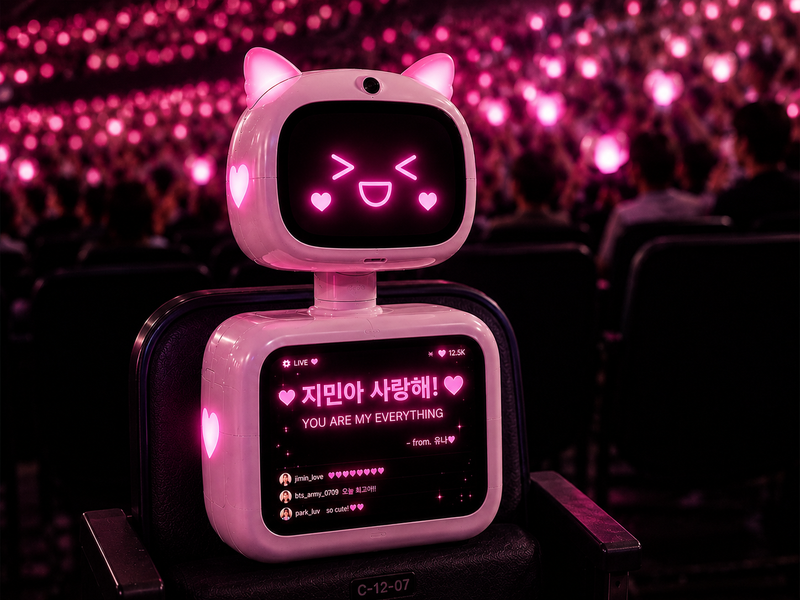
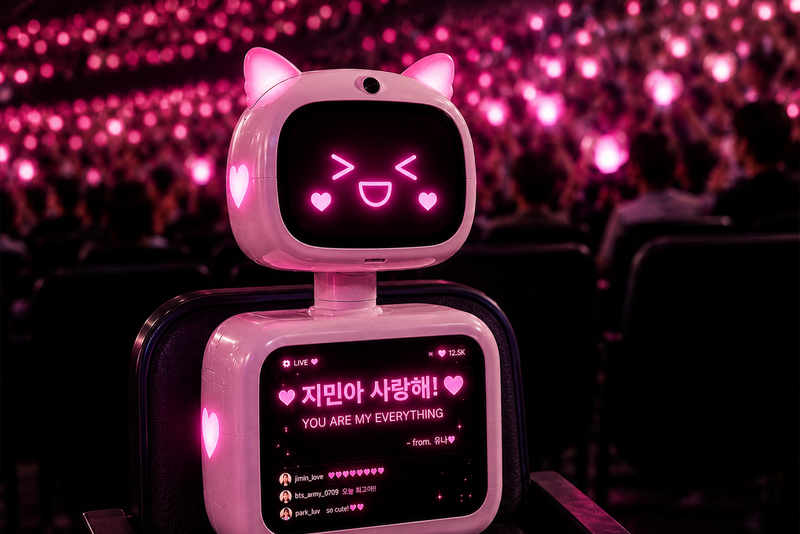
refine all pages

diff --git a/dp3.html b/dp3.html
@@ -38,21 +38,32 @@
   .concept-pull .q { font-family: var(--serif); font-size: clamp(24px,3vw,42px); line-height: 1.18; letter-spacing: -.01em; }
 
   /* components */
+  .comp-split { display: grid; grid-template-columns: clamp(180px, 40vw, 420px) 1fr; gap: clamp(16px, 4vw, 56px); align-items: stretch; min-height: 600px; }
+  @media(max-width: 820px) { 
+    .comp-split { min-height: 400px; gap: 16px; } 
+    .comp-grid .c { padding: 16px; }
+    .comp-grid .c h4 { font-size: 16px; }
+    .comp-grid .c p { font-size: 13px; }
+  }
+
   .comp-img .frame { aspect-ratio: 3/2; border-radius: 5px; }
   .comp-grid { display: grid; grid-template-columns: repeat(3,1fr); gap: 1px; background: var(--line-soft); border: 1px solid var(--line-soft); border-radius: 4px; overflow: hidden; margin-top: clamp(16px,2vw,24px); }
-  .comp-grid .c { background: var(--paper); padding: clamp(22px,2.4vw,32px); display: flex; flex-direction: column; gap: 14px; }
+  .comp-grid .c { background: var(--paper); padding: clamp(22px,2.4vw,32px); display: flex; flex-direction: column; gap: 5px; }
   .comp-grid .c .ci { display: flex; align-items: baseline; justify-content: space-between; gap: 12px; }
   .comp-grid .c .label { color: var(--accent); }
   .comp-grid .c .cnum { font-family: var(--serif); font-style: italic; font-size: 26px; color: var(--accent); }
   .comp-grid .c h4 { font-size: 19px; font-weight: 600; letter-spacing: -.01em; }
   .comp-grid .c p { font-size: 14.5px; color: var(--ink-soft); line-height: 1.55; }
-  @media(max-width:760px){ .comp-grid{ grid-template-columns:1fr; } }
 
   /* scenario gallery */
-  .gallery { display: grid; grid-template-columns: repeat(4,1fr); gap: clamp(10px,1.4vw,18px); }
-  .gallery .frame { border-radius: 4px; }
-  .gallery .frame.big { grid-column: span 2; grid-row: span 2; aspect-ratio: 1/1; }
-  @media(max-width:760px){ .gallery{ grid-template-columns:1fr 1fr; } .gallery .frame.big{ grid-column:span 2; aspect-ratio:16/10; grid-row:auto; } }
+  .gallery { display: grid; grid-template-columns: repeat(3, 1fr); gap: clamp(24px, 3vw, 48px); }
+  .gallery .g-item { display: flex; flex-direction: column; gap: 12px; }
+  .gallery .g-item.big { grid-column: span 2; }
+  .gallery .frame { border-radius: 6px; overflow: hidden; background: var(--line-faint); }
+  .gallery .frame img { width: 100%; display: block; object-fit: cover; }
+  .gallery .cap { display: flex; align-items: flex-start; gap: 8px; font-size: clamp(14px, 1.2vw, 15px); color: var(--ink-soft); line-height: 1.55; text-wrap: pretty; }
+  .gallery .cap::before { content: ""; display: block; width: 0; height: 0; border-top: 4px solid transparent; border-bottom: 4px solid transparent; border-left: 6px solid var(--accent); margin-top: 0.45em; flex-shrink: 0; }
+  @media(max-width:760px){ .gallery{ grid-template-columns:1fr; } .gallery .g-item.big{ grid-column:span 1; } }
 
   .vsection .vnote { margin-top: 16px; font-family: var(--mono); font-size: 11.5px; letter-spacing: .04em; color: var(--ink-faint); }
 </style>
@@ -79,7 +90,7 @@
         <div>
           <div class="eyebrow reveal"><span class="dot"></span> DP 03 · Concert Robot</div>
           <div class="h-num reveal">03</div>
-          <h1 class="reveal">Concert Robot</h1>
+          <h1 class="reveal" id="intro-video">Concert Robot</h1>
         </div>
         <div class="h-right">
           <p class="sub reveal">An interactive concert-photography robot — a seat-bound proxy that lets remote fans be present in the crowd.</p>
@@ -90,7 +101,7 @@
           </div>
         </div>
       </div>
-      <div class="h-band reveal">
+      <div class="h-band reveal"  data-video>
         <div class="video-slot" data-video>
           <video class="vposter" src="assets/media/dp3-intro.mp4"></video>
           <div class="vover">
@@ -103,63 +114,92 @@
 
     <!-- 01 BACKGROUND -->
     <section class="blk">
-      <div class="blk-grid">
-        <div class="bn reveal">01</div>
-        <div>
-          <div class="bh reveal">Background</div>
-          <p class="blk-lead reveal">Why remote fans still feel left out — and where a physical proxy could change that.</p>
+      <div class="blk-body" style="margin-top: clamp(60px, 8vh, 100px); text-align: center; max-width: 75ch; margin-left: auto; margin-right: auto; padding-bottom: 20px;">
+        <div class="reveal">
+          <div style="width: 40px; height: 2px; background: var(--accent); margin: 0 auto 32px auto;"></div>
+          <p style="font-size: clamp(20px,2vw,28px); color: var(--ink); line-height: 1.4; text-wrap: balance; font-weight: 400;">Many fans cannot attend concerts due to distance, time, or ticket limitations, and can only watch through livestreams or videos.</p>
+          <p style="font-size: clamp(16px,1.4vw,19px); color: var(--ink-soft); line-height: 1.6; text-wrap: pretty; margin-top:24px;">However, current remote viewing experiences are mostly one-way — lacking interaction and participation, making it difficult for fans to <span style="color: var(--accent); font-weight: 600;">feel truly present.</span></p>
+          
+
+          <div style="width: 40px; height: 2px; background: var(--accent); margin: 32px auto 0 auto;"></div>
         </div>
-      </div>
-      <div class="blk-body concept-pull reveal">
-        <div class="q">Many fans cannot attend concerts due to distance, time, or ticket limitations, and can only watch through livestreams or videos.</div>
-        <div class="q">However, current remote viewing experiences are mostly one-way — lacking interaction and participation, making it difficult for fans to feel truly present.</p>
       </div>
     </section>
 
-    <!-- 02 DESIGN CONCEPT -->
+    <!-- 02 COMPONENTS -->
     <section class="blk">
+      <!-- Part 1: Design Concept -->
       <div class="blk-grid">
-        <div class="bn reveal">02</div>
+        <div class="bn reveal">01</div>
         <div>
           <div class="bh reveal">Design <span class="serif-it">Concept</span></div>
-          <p class="blk-lead reveal">A half-body robot fixed to a seat allows remote fans to interact and communicate with on-site audiences through the robot proxy.</p>
+          <p class="blk-lead reveal" style="max-width: 75ch; margin-top: 16px;">To bridge the gap of remote viewing, we designed CATTY — a telepresence robotic proxy that gives remote fans a physical seat at the concert.</p>
         </div>
       </div>
-      <div class="blk-body reveal">
-        <div class="video-slot" data-video>
-          <video class="vposter" src="assets/media/dp3-demo.mp4"></video>
-          <div class="vover">
-            <div class="play"></div>
-            <div class="vcap">Prototype DEMO</div>
+
+      <div class="blk-body" style="margin-top: clamp(40px, 6vh, 80px); margin-bottom: 32px;">
+        <div class="reveal">
+          <h4 style="font-size: clamp(24px, 3vw, 32px); font-weight: 500; margin-bottom: 12px; color: var(--ink);">The Remote Audience Proxy</h4>
+          <p style="font-size: clamp(16px, 1.4vw, 19px); color: var(--ink-soft); line-height: 1.6; max-width: 80ch;">Designed as a half-body robot fixed to a concert seat, CATTY acts as a two-way emotional bridge. It immerses the remote fan in the live atmosphere, while allowing them to communicate and interact directly with the on-site audience and performers.</p>
+        </div>
+        <div class="reveal" style="margin-top: 32px; display: grid; grid-template-columns: repeat(2, 1fr); gap: clamp(16px, 2vw, 32px); max-width: 80ch;">
+          <div style="border-radius: 6px; overflow: hidden; background: var(--line-faint); box-shadow: 0 4px 20px rgba(0,0,0,0.06);">
+            <img src="assets/img/dp3-scn-1.png" alt="Concept scenario 1" style="width: 100%; display: block;" />
+          </div>
+          <div style="border-radius: 6px; overflow: hidden; background: var(--line-faint); box-shadow: 0 4px 20px rgba(0,0,0,0.06);">
+            <img src="assets/img/dp3-scn-2.png" alt="Concept scenario 2" style="width: 100%; display: block;" />
+          </div>
+        </div>
+      </div>
+      
+      <!-- Part 2: Key Components -->
+      <div class="blk-body" style="margin-top: clamp(60px, 8vh, 100px); margin-bottom: 32px;">
+        <div class="reveal">
+          <h4 style="font-size: clamp(24px, 3vw, 32px); font-weight: 500; margin-bottom: 12px; color: var(--ink);">Key Components</h4>
+          <p style="font-size: clamp(16px, 1.4vw, 19px); color: var(--ink-soft); line-height: 1.6; max-width: 80ch;">Three core parts turn an empty seat into a two-way window between the remote fan and the live crowd.</p>
+        </div>
+      </div>
+      
+      <div class="blk-body comp-split reveal" style="margin-top: 0;">
+        <div class="frame" style="position: relative;">
+          <img src="assets/img/dp3-concept.png" alt="Concert robot" style="position: absolute; top: 0; left: 0; width: 100%; height: 100%; object-fit: cover; border-radius: 4px;" />
+        </div>
+        <div class="comp-grid" style="display: flex; flex-direction: column; margin-top: 0; height: 100%;">
+          <div class="c" style="flex: 1; justify-content: center;">
+            <div class="ci"><span class="label">Screen</span><span class="cnum">01</span></div>
+            <h4>Viewer Face &amp; Emotion Display</h4>
+            <p>Shows the viewer's face and real-time emotional expressions, and can display remote fans' cheering messages live.</p>
+          </div>
+          <div class="c" style="flex: 1; justify-content: center;">
+            <div class="ci"><span class="label">Camera</span><span class="cnum">02</span></div>
+            <h4>Live Feed &amp; Capture</h4>
+            <p>A live monitor feed for the viewer, plus high-quality moment-capture for keeping the memories.</p>
+          </div>
+          <div class="c" style="flex: 1; justify-content: center;">
+            <div class="ci"><span class="label">Rotating Head</span><span class="cnum">03</span></div>
+            <h4>Gaze &amp; Tracking</h4>
+            <p>The head rotates left and right to simulate audience gaze and camera tracking, while enabling interaction with on-site fans.</p>
           </div>
         </div>
       </div>
     </section>
 
-    <!-- 03 COMPONENTS -->
+    <!-- 03 PROTOTYPE & DYNAMICS -->
     <section class="blk">
       <div class="blk-grid">
-        <div class="bn reveal">03</div>
+        <div class="bn reveal">02</div>
         <div>
-          <div class="bh reveal">Key <span class="serif-it">Components</span></div>
-          <p class="blk-lead reveal">Three parts turn an empty seat into a two-way window between the remote fan and the live crowd.</p>
+          <div class="bh reveal">Conceptual <span class="serif-it">Prototype</span></div>
+          <p class="blk-lead reveal" style="max-width: 70ch;">We brought CATTY to life by building a 1:1 conceptual prototype, enabling us to test key interactions and validate its physical form and scale.</p>
         </div>
       </div>
-      <div class="comp-grid">
-        <div class="c reveal" data-reveal-group="comp">
-          <div class="ci"><span class="label">Screen</span><span class="cnum">01</span></div>
-          <h4>Viewer Face &amp; Emotion Display</h4>
-          <p>Shows the viewer's face and real-time emotional expressions, and can display remote fans' cheering messages live.</p>
-        </div>
-        <div class="c reveal" data-reveal-group="comp">
-          <div class="ci"><span class="label">Camera</span><span class="cnum">02</span></div>
-          <h4>Live Feed &amp; Capture</h4>
-          <p>A live monitor feed for the viewer, plus high-quality moment-capture for keeping the memories.</p>
-        </div>
-        <div class="c reveal" data-reveal-group="comp">
-          <div class="ci"><span class="label">Rotating Head</span><span class="cnum">03</span></div>
-          <h4>Gaze &amp; Tracking</h4>
-          <p>The head rotates left and right to simulate audience gaze and camera tracking, while enabling interaction with on-site fans.</p>
+      <div class="blk-body reveal">
+        <div class="video-slot">
+          <video class="vposter" src="assets/media/dp3-demo.mp4"></video>
+          <div class="vover">
+            <div class="play"></div>
+            <div class="vcap">Interaction DEMO</div>
+          </div>
         </div>
       </div>
     </section>
@@ -167,18 +207,43 @@
     <!-- 04 SCENARIOS -->
     <section class="blk">
       <div class="blk-grid">
-        <div class="bn reveal">04</div>
+        <div class="bn reveal">03</div>
         <div>
           <div class="bh reveal">Scenarios</div>
-          <p class="blk-lead reveal">The proxy in context — reacting, cheering, and capturing moments from CATTY.</p>
+          <p class="blk-lead reveal" style="max-width: 70ch;">See how CATTY bridges the physical gap, transforming remote fans from passive viewers into active participants within the live crowd.</p>
         </div>
       </div>
-      <div class="blk-body gallery">
-        <div class="frame big reveal" data-reveal-group="gal"><img src="assets/img/dp3-scn-1.png" alt="Concert robot scenario 1" /></div>
-        <div class="frame reveal" data-reveal-group="gal"><img src="assets/img/dp3-fan.png" alt="Concert robot scenario 2" /></div>
-        <div class="frame reveal" data-reveal-group="gal"><img src="assets/img/dp3-scn-3.png" alt="Concert robot scenario 3" /></div>
-        <div class="frame reveal" data-reveal-group="gal"><img src="assets/img/dp3-scn-2.png" alt="Concert robot scenario 4" /></div>
-        <div class="frame reveal" data-reveal-group="gal"><img src="assets/img/dp3-scn-4.png" alt="Concert robot scenario 5" /></div>
+      
+      <div class="blk-body" style="margin-top: clamp(40px, 6vh, 80px); margin-bottom: clamp(24px, 4vh, 48px);">
+        <div class="reveal">
+          <h4 style="font-size: clamp(20px, 2vw, 24px); font-weight: 500; margin-bottom: 16px; color: var(--accent); font-style: italic;">Beyond Passive Viewing</h4>
+          <p style="font-size: clamp(16px, 1.4vw, 19px); color: var(--ink-soft); line-height: 1.6; text-wrap: pretty;">Instead of just watching a livestream alone at home, remote fans can use the robot's lights as a virtual lightstick, display supportive messages on the screen, and physically "look around" to interact with the on-site fans sitting next to them. This transforms passive watching into a shared, two-way emotional experience.</p>
+        </div>
+      </div>
+
+      <div class="blk-body gallery" style="margin-top: 0;">
+        <div class="g-item reveal" data-reveal-group="gal">
+          <div class="frame"><img src="assets/img/dp3-fan.png" alt="Concert robot scenario 2" /></div>
+          <div class="cap">On-site fans can interact and wave directly at CATTY, sharing the excitement.</div>
+        </div>
+        <div class="g-item reveal" data-reveal-group="gal">
+          <div class="frame"><img src="assets/img/dp3-scn-3.png" alt="Concert robot scenario 3" /></div>
+          <div class="cap">Performers on stage can make direct eye contact with the remote fan.</div>
+        </div>
+        <div class="g-item reveal" data-reveal-group="gal">
+          <div class="frame"><img src="assets/img/dp3-scn-4.png" alt="Concert robot scenario 5" /></div>
+          <div class="cap">CATTY will sit seamlessly beside other audiences, creating a natural physical presence that bridges the gap between remote fans and the live crowd.</div>
+        </div>
+      </div>
+
+      <div class="blk-body" style="margin-top: clamp(60px, 8vh, 100px); text-align: center;">
+        <div class="reveal">
+          <p style="font-size: 16px; color: var(--ink-soft); margin-bottom: 20px;">Ready to see it all come together?</p>
+          <a href="#intro-video" style="display: inline-flex; align-items: center; gap: 10px; padding: 14px 28px; background: var(--accent); color: var(--paper); text-decoration: none; border-radius: 40px; font-weight: 500; letter-spacing: 0.02em; font-size: 15px; box-shadow: 0 4px 12px rgba(0,0,0,0.15); transition: transform 0.2s, box-shadow 0.2s;" onmouseover="this.style.transform='translateY(-2px)'; this.style.boxShadow='0 6px 16px rgba(0,0,0,0.2)';" onmouseout="this.style.transform='translateY(0)'; this.style.boxShadow='0 4px 12px rgba(0,0,0,0.15)';">
+            <svg width="18" height="18" viewBox="0 0 24 24" fill="none" stroke="currentColor" stroke-width="2" stroke-linecap="round" stroke-linejoin="round"><polygon points="5 3 19 12 5 21 5 3"></polygon></svg>
+            Watch Functional Demo
+          </a>
+        </div>
       </div>
     </section>
 

diff --git a/dp1.html b/dp1.html
@@ -88,7 +88,7 @@
         <div class="eyebrow reveal"><span class="dot"></span> DP 01 · Robot Idol</div>
         <div class="h-num reveal">01</div>
         <h1 class="reveal">Boreum</h1>
-        <p class="sub reveal">An Arduino-powered idol robot that autonomously performs on stage through programmed movement, music, and character-driven interaction.</p>
+        <p class="sub reveal">An Arduino-powered idol robot that autonomously performs on stage through programmed movement and lighting sequences.</p>
         <div class="tags reveal">
           <span class="tag">Arduino</span>
           <span class="tag">LED Light Show</span>
@@ -122,17 +122,17 @@
 
     <!-- 01 THE DESIGN CHALLENGE -->
     <section class="blk">
-      <div class="blk-grid">
+      <!-- <div class="blk-grid">
         <div class="bn reveal">01</div>
         <div>
           <div class="bh reveal">The Design <span class="serif-it">Challenge</span></div>
           <p class="blk-lead reveal">Bridging the gap between cold machinery and emotional expression through choreographic design.</p>
         </div>
-      </div>
+      </div> -->
       <div class="blk-body" style="margin-top: clamp(60px, 8vh, 100px); text-align: center; max-width: 75ch; margin-left: auto; margin-right: auto; padding-bottom: 20px;">
         <div class="reveal">
           <div style="width: 40px; height: 2px; background: var(--accent); margin: 0 auto 32px auto;"></div>
-          <p style="font-size: clamp(20px,2vw,28px); color: var(--ink); line-height: 1.4; text-wrap: balance; font-weight: 400;">Our goal is to transform rigid hardware components into an expressive, emotional character.</p>
+          <p style="font-size: clamp(20px,2vw,28px); color: var(--ink); line-height: 1.4; text-wrap: balance; font-weight: 400;">Our goal is to fuse raw hardware with creative expression, transforming mechanical components into a highly expressive, emotional character.</p>
           <p style="font-size: clamp(16px,1.4vw,19px); color: var(--ink-soft); line-height: 1.6; text-wrap: pretty; margin-top:24px;">We aim to create an <span style="color: var(--accent); font-weight: 600;">idol-like performing robot</span> that moves in sync with music, seamlessly synchronizing lighting, sound, and servomotor movements to mimic the captivating energy of a live performance.</p>
           <div style="width: 40px; height: 2px; background: var(--accent); margin: 32px auto 0 auto;"></div>
         </div>
@@ -142,10 +142,10 @@
     <!-- 02 IDEATION & SKETCHES -->
     <section class="blk">
       <div class="blk-grid">
-        <div class="bn reveal">02</div>
+        <div class="bn reveal">01</div>
         <div>
           <div class="bh reveal">Concept <span class="serif-it">Exploration</span></div>
-          <p class="blk-lead reveal">Before arriving at the final design, we explored various shapes and character personas through rapid sketching and physical mockups.</p>
+          <p class="blk-lead reveal">Before arriving at the final design, we explored various shapes and character personas through sketching and physical mockups.</p>
         </div>
       </div>
 
@@ -182,7 +182,7 @@
           <div class="kref">Movement Design</div>
           <h3>Bringing lyrics to <span class="serif-it">life</span></h3>
           <p>To deliver a true idol performance, we choreographed the robot's motion to reflect the song's rhythmic changes, utilizing dynamic spins and directional movements to match the beat.</p>
-          <p style="margin-top:12px;">Drawing inspiration from the lyrics, <i>"glowin'"</i> and <i>"That's who we're born to be"</i>, we designed lighting sequences that visually amplify the emotional with the song.</p>
+          <p style="margin-top:12px;">Moreover, drawing inspiration from the lyrics, <i>"glowin'"</i> and <i>"That's who we're born to be"</i>, we designed lighting sequences that visually amplify the emotional with the song.</p>
         </div>
         <div style="display: grid; grid-template-columns: 1fr; gap: clamp(12px, 1.5vw, 20px);">
           <div class="frame reveal" data-reveal-group="rmedia" style="aspect-ratio: 3/1;"><img src="assets/img/dp1-light1.png" style="object-fit: cover; width: 100%; height: 100%;" /></div>
@@ -194,7 +194,7 @@
     <!-- 03 SYSTEM & PROCESS -->
     <section class="blk">
       <div class="blk-grid">
-        <div class="bn reveal">03</div>
+        <div class="bn reveal">02</div>
         <div>
           <div class="bh reveal">System Structure &amp; <span class="serif-it">Production</span></div>
           <p class="blk-lead reveal">A single Arduino board drives both the lighting and the motion, sequencing them into one designated performance.</p>
@@ -227,8 +227,8 @@
         </div>
         <div class="step reveal" data-reveal-group="steps">
           <div class="sn">2</div>
-          <h4>Sensory Integration</h4>
-          <p>Mapping sound triggers to lighting states to create a cohesive, multi-sensory experience.</p>
+          <h4>Audio-Visual Sync</h4>
+          <p>Carefully sequencing lighting states to the exact timing of the music track to create a perfectly synchronized sensory experience.</p>
         </div>
         <div class="step reveal" data-reveal-group="steps">
           <div class="sn">3</div>

diff --git a/team.html b/team.html
@@ -86,7 +86,7 @@
 
     <header class="team-head">
       <h1 class="reveal">Meet the<span class="serif-it">Team</span></h1>
-      <p class="intro reveal">A collaborative team from NCCU's Spring 2026 HRI &amp; HAII course, dedicated to bridging the gap between humans and intelligent systems. By combining user research, behavioral analysis, and interaction design, we aim to create technology that feels natural and trustworthy.
+      <p class="intro reveal">A collaborative team from NCCU's Spring 2026 HRI &amp; HAII Design course, dedicated to bridging the gap between humans and intelligent systems. By combining physical prototyping, character crafting, and interaction design, we explore how robots and AI can go beyond functional tools to become engaging companions and emotional bridges.
         <span class="meta">Group 8 · National Chengchi University · 2026</span>
       </p>
     </header>
@@ -99,7 +99,7 @@
         </div>
         <div class="mid">
           <div class="role">Developer</div>
-          <div class="name">Ting Yun Cheng</div>
+          <div class="name">Ting-Yun Cheng</div>
           <div class="focus">Builds the logic — programming, system integration and making the moving parts talk to each other.</div>
           <div class="line"></div>
           <div class="add">Code · Logic · Integration</div>
@@ -113,10 +113,10 @@
         </div>
         <div class="mid">
           <div class="role">Arduino Builder</div>
-          <div class="name">Yi Hung Hsieh</div>
-          <div class="focus">Wires the hardware — circuits, sensors, motors and lights, assembled into working physical builds.</div>
+          <div class="name">Yi-Hung Hsieh</div>
+          <div class="focus">Wires the hardware — circuits, motors and lights, assembled into working physical builds.</div>
           <div class="line"></div>
-          <div class="add">Circuits · Sensors · Assembly</div>
+          <div class="add">Circuits · Hardware · Assembly</div>
         </div>
       </article>
 
@@ -127,7 +127,7 @@
         </div>
         <div class="mid">
           <div class="role">UX Designer</div>
-          <div class="name">Yu Hsin Su</div>
+          <div class="name">Yu-Hsin Su</div>
           <div class="focus">Shapes the experience — user research, interaction flows and the look &amp; feel across every project.</div>
           <div class="line"></div>
           <div class="add">Research · Flows · Interaction</div>

diff --git a/README.md b/README.md
@@ -4,6 +4,11 @@ This is the portfolio website of Group 8, featuring Robot and AI interaction des
 
 Take a look 👀 : https://tingyun1015.github.io/Robot_Design_Portfolio/index.html
 
----
 
+## People
+
+- Team members: Yu-Hsin Su, Yi-Hung Hsieh, and Ting-Yun Cheng.
+- Instructor: Professor Yo-Yo Hou.
+
+---
 *This website was developed in collaboration with Claude Design.*